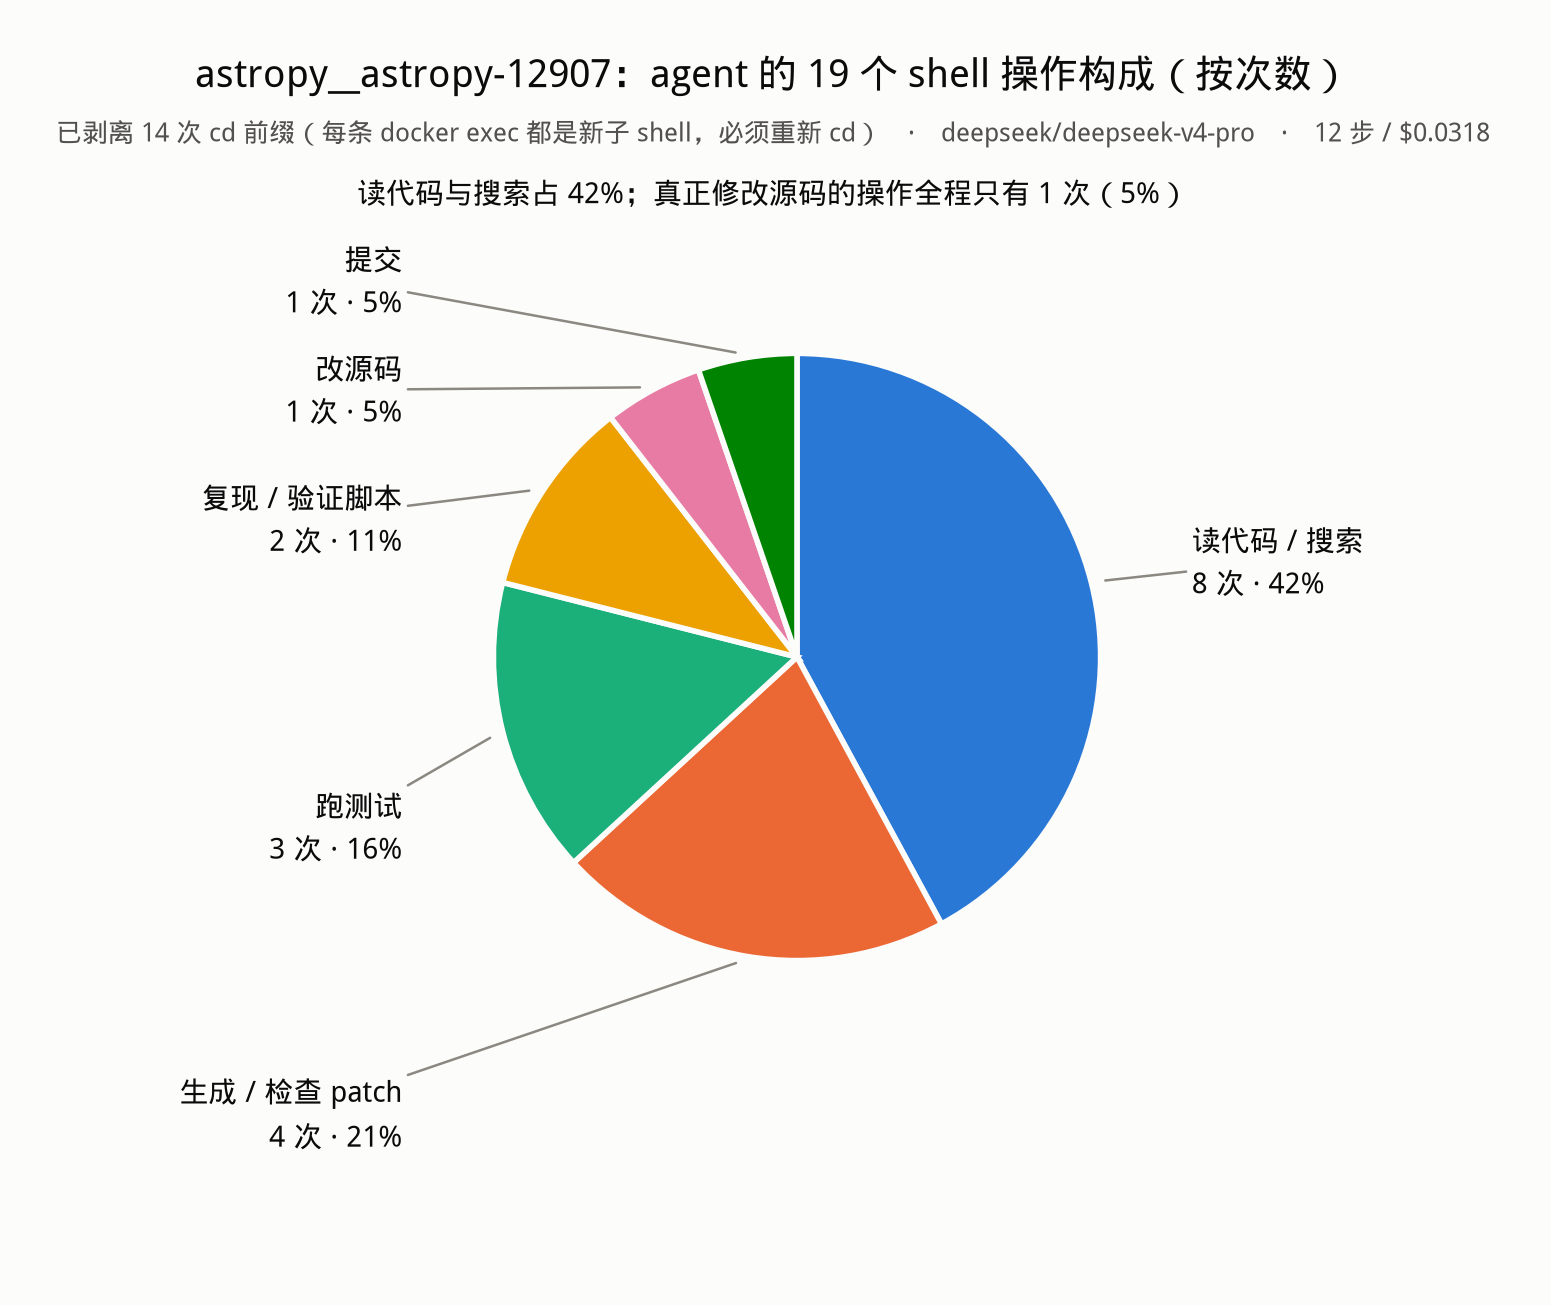
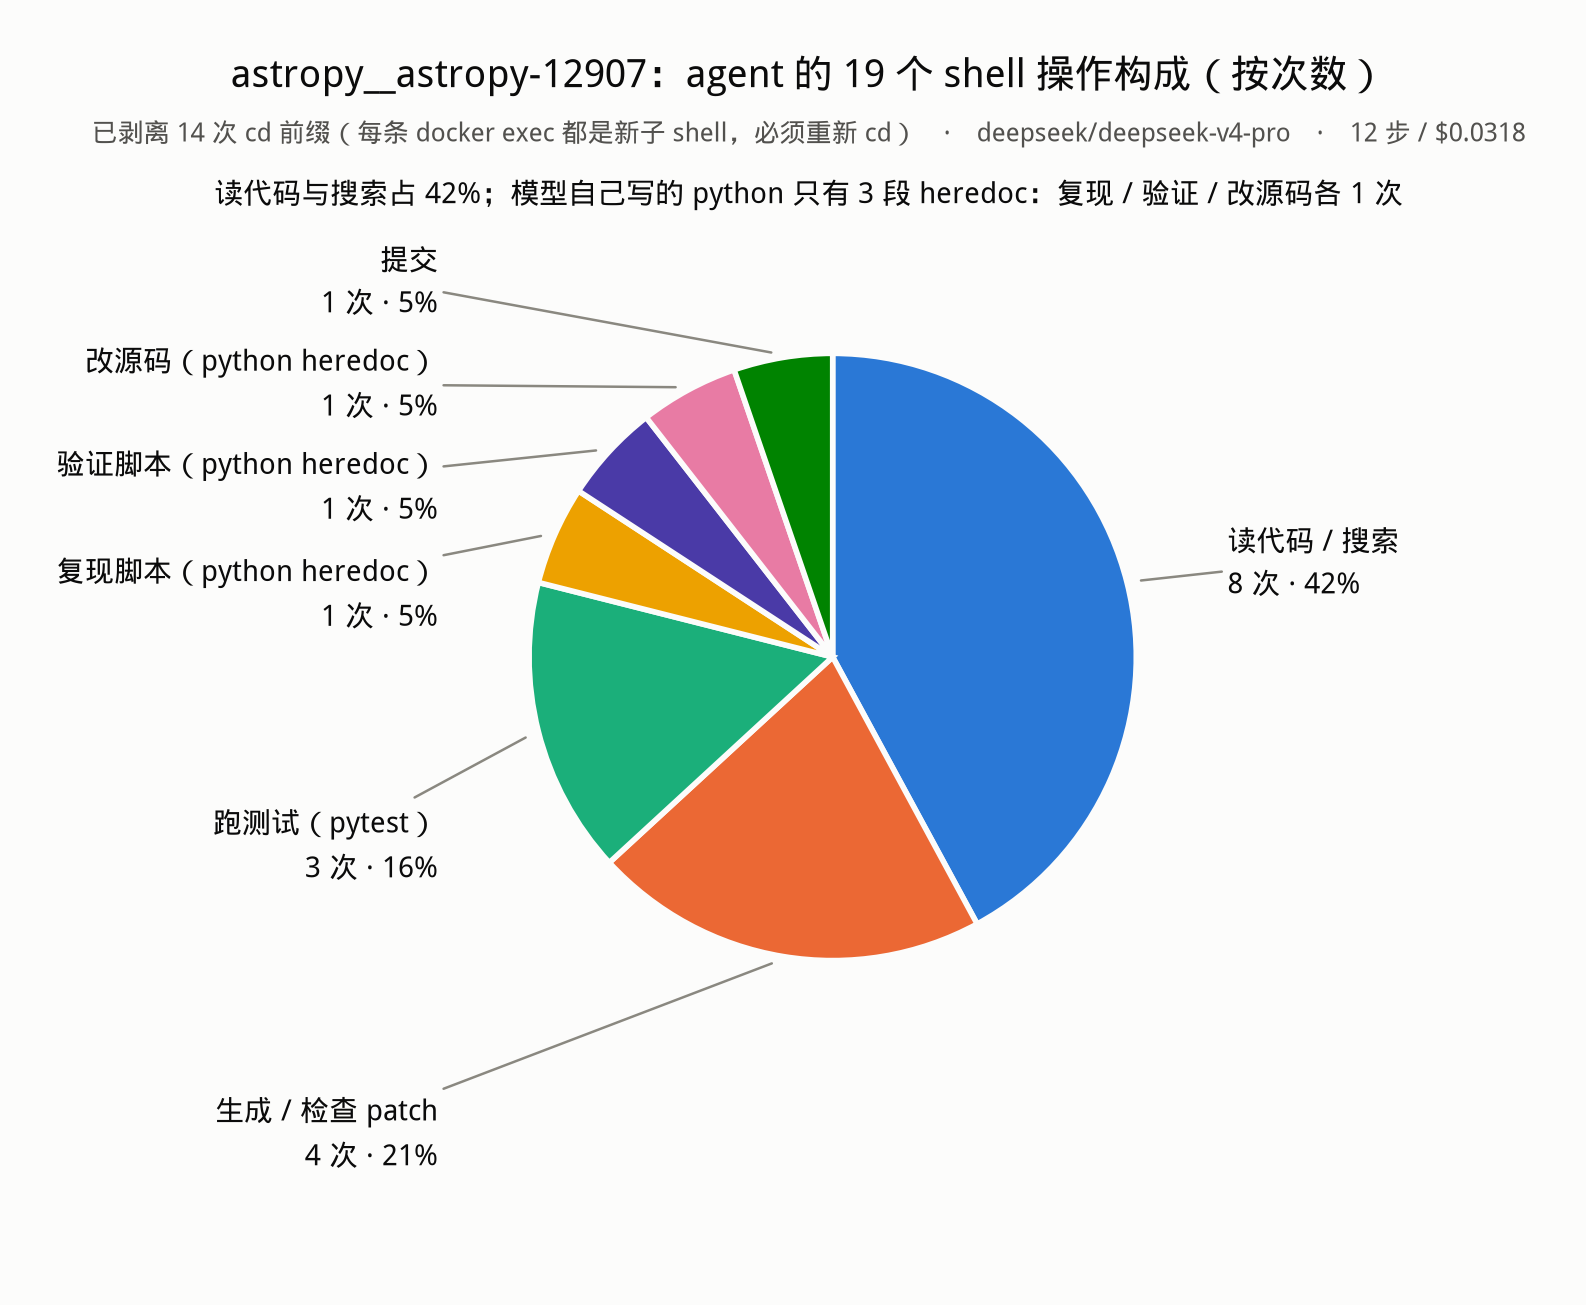
拆分复现/验证脚本为两类；标注改为命令形态而非"是不是 python"
1. 复现 vs 验证
   两者命令形态完全一样（python - <<'PY'，只 print 不写盘），文本分不出来。
   判据是位置：首次 edit_file 之前=复现，之后=验证。
   在 analyze_traj.analyze() 里做顺序后处理，意图 10 类 -> 11 类。
   饼图拆成 7 扇区，7 色环（含首尾相邻对）经 validate_palette.js 校验 PASS。

2. 修 bug
   make_pie.command_phase() 原来重新调 classify() 给时间图归类，
   会把 verify 又并回 repro（时间图里验证脚本显示 0s）。
   改为复用 analyze 已标好的 intent，按序号对齐并断言命令一致。

3. 标注口径
   原写 "(python)" 不准确：容器里 pytest 的 shebang 就是
   #!/opt/miniconda3/envs/testbed/bin/python，跑测试同样是 Python 进程。
   它显示成 pytest 只因模型敲的是 `pytest -q …` 而非 `python -m pytest`。
   改标命令形态：跑测试(pytest) / 复现·验证·改源码(python heredoc)，
   区分的是代码谁写的——heredoc 是模型现场写的，pytest 跑的是仓库现成测试。

Claude-Session: https://claude.ai/code/session_01Afx9M7aJnpNWGjC3x7WCYd

diff --git a/swebench-run/make_pie.py b/swebench-run/make_pie.py
@@ -23,7 +23,6 @@ matplotlib.use("Agg")
 import matplotlib.pyplot as plt
 from matplotlib import font_manager
 
-from analyze_traj import classify, split_commands, strip_cd
 
 font_manager.fontManager.addfont("/home/river/.local/share/fonts/WenQuanYiMicroHei.ttf")
 plt.rcParams["font.family"] = ["WenQuanYi Micro Hei"]
@@ -32,16 +31,21 @@ plt.rcParams["axes.unicode_minus"] = False
 SURFACE, INK, INK2, INK3 = "#fcfcfb", "#0b0b0b", "#52514e", "#8a8880"
 
 # fixed wedge order + fixed color per phase (validated as a ring, wrap included)
+# 标注写的是命令形态，不是"是不是 Python"——pytest 本身就是个 Python console script
+# (#!/opt/miniconda3/envs/testbed/bin/python)，跑测试同样是 Python 进程。
+# 有意义的区分是代码谁写的：heredoc 是模型现场写的，pytest 跑的是仓库里现成的测试。
+# 那三条 heredoc 之间再靠"正文写不写盘"和"相对改源码的位置"区分。
 PHASES = [
-    ("读代码 / 搜索",      "#2a78d6", ["read_file", "list_dir", "search_files", "search_content"]),
-    ("生成 / 检查 patch",  "#eb6834", ["make_patch", "vcs"]),
-    ("跑测试",             "#1baf7a", ["run_tests"]),
-    ("复现 / 验证脚本",    "#eda100", ["repro_script"]),
-    ("改源码",             "#e87ba4", ["edit_file"]),
-    ("提交",               "#008300", ["submit"]),
+    ("读代码 / 搜索",       "#2a78d6", ["read_file", "list_dir", "search_files", "search_content"]),
+    ("生成 / 检查 patch",   "#eb6834", ["make_patch", "vcs"]),
+    ("跑测试（pytest）",     "#1baf7a", ["run_tests"]),
+    ("复现脚本（python heredoc）", "#eda100", ["repro_script"]),
+    ("验证脚本（python heredoc）", "#4a3aa7", ["verify_script"]),
+    ("改源码（python heredoc）",   "#e87ba4", ["edit_file"]),
+    ("提交",                "#008300", ["submit"]),
 ]
 # which phase a whole command belongs to, when it mixes intents
-PRIORITY = ["submit", "run_tests", "edit_file", "repro_script",
+PRIORITY = ["submit", "run_tests", "edit_file", "repro_script", "verify_script",
             "make_patch", "vcs", "search_content", "search_files", "read_file", "list_dir"]
 INTENT2PHASE = {k: name for name, _, keys in PHASES for k in keys}
 
@@ -55,22 +59,27 @@ def by_count(res):
     return vals, "次", lambda v: f"{v:.0f} 次"
 
 
-def command_phase(cmd: str) -> str:
-    intents = set()
-    for op in split_commands(cmd):
-        _, real = strip_cd(op)
-        if real.strip():
-            intents.add(classify(real))
+def command_phase(call: dict) -> str:
+    """Phase of a whole command, from the intents the analyzer already assigned.
+
+    Deliberately NOT a re-classification: repro vs verify is decided in
+    analyze_traj by position relative to the first edit, and re-running
+    classify() here would silently collapse the two back together.
+    """
+    intents = {op["intent"] for op in call["ops"]}
     for p in PRIORITY:
         if p in intents:
             return INTENT2PHASE[p]
-    raise AssertionError(f"no phase for {cmd[:60]!r} ({intents})")
+    raise AssertionError(f"no phase for {call['command'][:60]!r} ({intents})")
 
 
-def by_time(timing):
+def by_time(timing, res):
+    rows, calls = timing["commands"], res["calls"]
+    assert len(rows) == len(calls), (len(rows), len(calls))
     vals = {name: 0.0 for name, _, _ in PHASES}
-    for row in timing["commands"]:
-        vals[command_phase(row["command"])] += row["seconds"]
+    for row, call in zip(rows, calls):
+        assert row["command"] == call["command"], f"order mismatch at #{row['n']}"
+        vals[command_phase(call)] += row["seconds"]
     return vals, "秒", lambda v: f"{v:.2f} s"
 
 
@@ -96,8 +105,8 @@ def draw(vals, unit_fmt, out, title, subtitle, takeaway):
     for side in (1, -1):
         grp = sorted([p for p in placed if p["side"] == side], key=lambda p: p["ly"])
         for a, b in zip(grp, grp[1:]):
-            if b["ly"] - a["ly"] < 0.36:
-                b["ly"] = a["ly"] + 0.36
+            if b["ly"] - a["ly"] < 0.34:
+                b["ly"] = a["ly"] + 0.34
         shift = max(0.0, max((p["ly"] for p in grp), default=0) - 1.24)
         for p in grp:
             p["ly"] -= shift
@@ -130,11 +139,11 @@ if __name__ == "__main__":
          f"{res['instance_id']}：agent 的 {res['n_real_ops']} 个 shell 操作构成（按次数）",
          f"已剥离 {res['n_cd_prefix']} 次 cd 前缀（每条 docker exec 都是新子 shell，必须重新 cd）"
          f"　·　{res['model']}　·　{res['n_steps']} 步 / ${res['instance_cost']:.4f}",
-         "读代码与搜索占 42%；真正修改源码的操作全程只有 1 次（5%）")
+         "读代码与搜索占 42%；模型自己写的 python 只有 3 段 heredoc：复现 / 验证 / 改源码各 1 次")
 
-    vals, _, fmt = by_time(timing)
+    vals, _, fmt = by_time(timing, res)
     draw(vals, fmt, "op_mix_time.png",
          f"{res['instance_id']}：同样 19 个操作，按容器内执行时间",
          f"14 条命令在同镜像中按原顺序重跑、取 3 次最小值，合计 {timing['total_seconds']:.2f}s"
          f"　·　{timing['image'].split('/')[-1]}",
-         "改成按时间看，结论翻转：跑测试独占 60%，读代码与搜索只剩 9%")
+         "按时间看结论翻转：pytest 独占 60%；同为 python heredoc，复现 1.95s 而改源码只要 0.26s")

diff --git a/swebench-run/analyze_traj.py b/swebench-run/analyze_traj.py
@@ -282,6 +282,18 @@ def analyze(path: Path, harness_probe: bool = True) -> dict:
                 entry["ops"].append({"cmd": real, "intent": intent, "binaries": bins})
             calls.append(entry)
 
+    # A repro script and a verification script are the same command shape -- a
+    # python heredoc that only prints. What separates them is position: before the
+    # first edit it establishes the bug, after it it checks the fix. Nothing in the
+    # text says which, so it is decided here, in order.
+    flat = [op for c in calls for op in c["ops"]]
+    first_edit = next((i for i, op in enumerate(flat) if op["intent"] == "edit_file"), None)
+    if first_edit is not None:
+        for op in flat[first_edit + 1:]:
+            if op["intent"] == "repro_script":
+                op["intent"] = "verify_script"
+    intents = Counter(op["intent"] for op in flat)
+
     lm = [s["lm_window"] for s in steps if s["lm_window"] is not None]
     ex = [s["exec_window"] for s in steps if s["exec_window"] is not None]
     hs = [s["harness_s"] for s in steps if s["harness_s"] is not None]

diff --git a/swebench-run/OPERATIONS_astropy-12907.md b/swebench-run/OPERATIONS_astropy-12907.md
@@ -163,30 +163,45 @@
 
 按工作阶段归并（饼图的 6 个扇区）：
 
-| 阶段 | 次数 | 占比 | 含哪些 |
-|---|---:|---:|---|
-| 读代码 / 搜索 | 8 | 42.1% | `read_file` 5 + `list_dir` 1 + `search_files` 1 + `search_content` 1 |
-| 生成 / 检查 patch | 4 | 21.1% | `make_patch` 3 + `vcs` 1 |
-| 跑测试 | 3 | 15.8% | `run_tests` 3 |
-| 复现 / 验证脚本 | 2 | 10.5% | `repro_script` 2 |
-| 改源码 | 1 | 5.3% | `edit_file` 1 |
-| 提交 | 1 | 5.3% | `submit` 1 |
+| 阶段 | 次数 | 占比 | 执行时间 | 含哪些 |
+|---|---:|---:|---:|---|
+| 读代码 / 搜索 | 8 | 42.1% | 1.27 s · 9.2% | `read_file` 5 + `list_dir` 1 + `search_files` 1 + `search_content` 1 |
+| 生成 / 检查 patch | 4 | 21.1% | 0.72 s · 5.2% | `make_patch` 3 + `vcs` 1 |
+| 跑测试（pytest） | 3 | 15.8% | **8.31 s · 60.3%** | `run_tests` 3 |
+| 复现脚本（python heredoc） | 1 | 5.3% | 1.95 s · 14.2% | `repro_script` 1 |
+| 验证脚本（python heredoc） | 1 | 5.3% | 1.02 s · 7.4% | `verify_script` 1 |
+| 改源码（python heredoc） | 1 | 5.3% | 0.26 s · 1.9% | `edit_file` 1 |
+| 提交 | 1 | 5.3% | 0.25 s · 1.8% | `submit` 1 |
 
-原始 10 类意图明细（饼图不直接画 10 类：6 个类别都只有 1 次、各占 5.3%，
-画成 10 个扇区里 6 个一模一样的细条，反而看不出东西）：
+> **括号里标的是命令形态，不是"是不是 Python"。** 容器里的 `pytest` 本身就是个 Python
+> console script（`#!/opt/miniconda3/envs/testbed/bin/python`），跑测试同样是 Python 进程；
+> 它在程序统计里显示成 `pytest` 而不是 `python`，只是因为模型敲的是 `pytest -q …`
+> 而不是 `python -m pytest`——那是 shell 层的程序名，不代表运行时不是 Python。
+> 真正有意义的区分是**代码谁写的**：`python - <<'PY'` 是模型现场写的，`pytest` 跑的是仓库里现成的测试。
+
+原始 11 类意图明细（饼图把读/搜的 4 类并成一格、patch 相关的 2 类并成一格，
+其余按 1:1 展开成 7 个扇区）：
 
 | 意图 | 次数 | 说明 |
 |---|---:|---|
 | `read_file` | 5 | `sed -n 'a,bp'`（3）、`cat patch.txt`（2） |
 | `make_patch` | 3 | `git diff -- <file>`，其中 1 次重定向到 patch.txt |
 | `run_tests` | 3 | 3 次 pytest |
-| `repro_script` | 2 | `python - <<'PY'` 只打印不写盘（#5 复现、#8 边界验证） |
+| `repro_script` | 1 | #5：`python - <<'PY'` 只打印不写盘，**改源码之前**跑，确认 bug 存在 |
+| `verify_script` | 1 | #8：同样形状的脚本，**改源码之后**跑，确认修复生效且没留坑 |
 | `list_dir` | 1 | `ls -la` |
 | `search_files` | 1 | `find . -maxdepth 3 -name 'separable.py' ...` |
 | `search_content` | 1 | `grep -R "separability_matrix" -n astropy/modeling` |
 | `edit_file` | 1 | **全程只有这一次真正改了源码**（#7 的 `python - <<'PY'` + `write_text`） |
 | `vcs` | 1 | `git status --short` |
 | `submit` | 1 | `echo COMPLETE_TASK_AND_SUBMIT_FINAL_OUTPUT` |
+
+> **`repro_script` 和 `verify_script` 怎么分的**：分不了——两条命令的*形状完全一样*
+> （`python - <<'PY'` heredoc，只 print、不写盘），文本里没有任何信号能区分。
+> 唯一可靠的判据是**位置**：出现在全程唯一一次 `edit_file`（#7）之前的是复现，之后的是验证。
+> 所以 `analyze_traj.py` 不用正则判，而是在分类后按顺序做一遍后处理：
+> 找到第一个 `edit_file`，把它之后的 `repro_script` 改标成 `verify_script`。
+> 饼图里这两者已按要求拆成独立扇区（共 7 个）。
 
 **另计：`cd` 前缀 14 次，目标全部是 `/testbed`。** 不计入上表——它是子 shell 协议的开销，不是工作。
 
@@ -235,6 +250,9 @@ PY
 - 用 `python - <<'PY'` 而不是先 `cat > repro.py` 再 `python repro.py`：不落盘，
   也就不会污染最后的 `git diff`。prompt 明确禁止把复现脚本提交进 patch，这种写法天然规避。
 - 这次是全程最慢的一轮（LM 侧 17.6s，因为模型在这轮花了 1,119 个 reasoning token）。
+- **这是"复现"而不是"验证"**：它跑在改源码之前，要证明的是 bug 真的存在于这个环境
+  （而不是 issue 写错了或版本对不上）。输出的第三个矩阵右下角是 2×2 全 True，
+  正是 issue 描述的"嵌套之后不可分了"。执行耗时 1.954s，其中大头是冷启动的 `import astropy`。
 
 ### 阶段 C｜改代码（#7，核心动作）
 ```bash
@@ -275,7 +293,11 @@ cd /testbed && pytest -q astropy/modeling/tests/test_separable.py astropy/modeli
 # #11 收窄回来确认
 cd /testbed && pytest -q astropy/modeling/tests/test_separable.py --disable-warnings --maxfail=1   # rc=0
 ```
-- #8 是**自己扩展的边界测试**（`cm & Pix2Sky_TAN()` 左嵌套、`Linear1D & (Pix2Sky_TAN & cm)` 双层嵌套），
+- #8 是**"验证"而不是"复现"**：同一形状的 heredoc，但跑在改源码之后。
+  同样三个 case 重跑，`nested` 的输出从 `[…,[F,F,T,T],[F,F,T,T]]` 变成
+  `[…,[F,F,T,F],[F,F,F,T]]`——右下角回到对角，与 `flat` 一致，说明修好了。
+  它还加了 `is_separable()` 交叉验证。执行只要 1.023s（`.pyc` 已被 #5 预热）。
+- #8 同时是**自己扩展的边界测试**（`cm & Pix2Sky_TAN()` 左嵌套、`Linear1D & (Pix2Sky_TAN & cm)` 双层嵌套），
   prompt 的 "Test edge cases" 那一步确实被执行了。
 - #10 的 `rc=1` 是 `test_core.py::test_prepare_outputs_single_entry_vector` 失败，
   原因是浮点最后一位不等（`Max absolute difference: 1.11e-16`），**与本次改动无关**（预先存在的环境噪声）。

diff --git a/EXEC_LOG_2026-09-01.md b/EXEC_LOG_2026-09-01.md
@@ -101,3 +101,10 @@
 - **配色修正:** 时间图若按数值降序排扇区，会让 orange(生成/检查patch) 与 magenta(改源码) 相邻，validate_palette.js 报 FAIL（normal-vision ΔE 12.9 < 15）。因"颜色跟随类别、不跟随排名"，改为两张图共用同一套固定扇区顺序与配色——既过校验，两图也能逐扇区对照。
 - **按要求删除暗色版本**，只保留白底 PNG。
 - **时序图:** `make_sequence.py` 用 matplotlib 手绘，5 个 participant（swebench infer / mini runner / DefaultAgent / LitellmModel / DockerEnvironment），含 loop 框与 Submitted note。每条箭头都对应已读源码。渲染后目视检查 3 轮：修了纵向布局（箭头标签画在箭头上方但只往下预留空间导致上撞）、给标签加 surface 遮罩（否则生命线穿字）、note 框改为按真实文本包围盒定宽（估算偏窄会溢出）。用像素扫描确认全图长横线只有 participant 框线/箭头/loop 框/note 框，无穿字线。
+
+### Step 12: 复现/验证拆类 + 标注口径修正
+- **Status:** success
+- **拆类:** `repro_script` 与 `verify_script` 命令形态完全一致（都是 `python - <<'PY'`，只 print 不写盘），文本无法区分。判据是位置：首次 `edit_file`(#7) 之前=复现，之后=验证。在 `analyze_traj.analyze()` 里做顺序后处理实现。意图从 10 类变 11 类；饼图按要求拆成 7 个扇区，7 色环（含首尾相邻对）经 validate_palette.js 校验 PASS（新增 slot7 violet #4a3aa7 给验证脚本）。
+- **修一个 bug:** `make_pie.command_phase()` 原来重新调 `classify()` 给时间图归类，会把 verify 又并回 repro（时间图里验证脚本显示 0s）。改为直接复用 `traj_analysis.json` 里 analyze 已标好的 intent，并按序号对齐 + 断言命令一致。
+- **标注口径修正:** 原写"(python)"不准确。实测容器内 `/opt/miniconda3/envs/testbed/bin/pytest` 的 shebang 就是 `#!/opt/miniconda3/envs/testbed/bin/python`，跑测试同样是 Python 进程；程序统计里显示 `pytest` 而非 `python`，只因模型敲的是 `pytest -q …` 而非 `python -m pytest`（shell 层程序名）。故标注改为命令形态：`跑测试（pytest）` / `复现·验证·改源码（python heredoc）`，区分的是"代码谁写的"。
+- **执行时间（拆开后）:** 复现 1.95s·14%、验证 1.02s·7%、改源码 0.26s·2%、pytest 8.31s·60%。

diff --git a/swebench-run/README.md b/swebench-run/README.md
@@ -166,8 +166,8 @@ git checkout <base> astropy/modeling/tests/test_separable.py
 ![操作构成](op_mix_count.png)
 
 ```
-读代码/搜索 8 (42%)   生成/检查patch 4 (21%)   跑测试 3 (16%)
-复现脚本 2 (11%)      改源码 1 (5%)            提交 1 (5%)
+读代码/搜索 8 (42%)              生成/检查patch 4 (21%)   跑测试(pytest) 3 (16%)
+复现脚本(python heredoc) 1 (5%)  验证脚本(同) 1 (5%)      改源码(同) 1 (5%)   提交 1 (5%)
 ```
 
 实际调用的程序：`git`×4、`sed`×3、`python`×3、`pytest`×3、`head`×2、`cat`×2、`ls`/`find`/`grep`/`echo` 各 1。
@@ -184,12 +184,18 @@ git checkout <base> astropy/modeling/tests/test_separable.py
 
 | 阶段 | 按次数 | 按执行时间 |
 |---|---:|---:|
-| 跑测试 | 3 次 · 16% | **8.31 s · 60%** |
-| 复现 / 验证脚本 | 2 次 · 11% | 2.98 s · 22% |
+| 跑测试（pytest） | 3 次 · 16% | **8.31 s · 60%** |
+| 复现脚本（python heredoc） | 1 次 · 5% | 1.95 s · 14% |
+| 验证脚本（python heredoc） | 1 次 · 5% | 1.02 s · 7% |
 | 读代码 / 搜索 | **8 次 · 42%** | 1.27 s · **9%** |
 | 生成 / 检查 patch | 4 次 · 21% | 0.72 s · 5% |
-| 改源码 | 1 次 · 5% | 0.26 s · 2% |
+| 改源码（python heredoc） | 1 次 · 5% | 0.26 s · 2% |
 | 提交 | 1 次 · 5% | 0.25 s · 2% |
+
+括号标的是命令形态而非"是不是 Python"：容器里的 `pytest` 本身就是 Python console script
+（`#!/opt/…/bin/python`），跑测试同样是 Python 进程；它显示成 `pytest` 只是因为模型敲的是
+`pytest -q …` 而不是 `python -m pytest`。有意义的区分是代码谁写的——heredoc 是模型现场写的，
+pytest 跑的是仓库里现成的测试。
 
 次数最多的读和搜几乎不花时间（每条 0.22–0.29s，大半还是 `docker exec` 的固定开销）；
 时间全被 pytest 吃掉。同样是 `python - <<'PY'`，复现脚本 1.95s（要 `import astropy`）、
